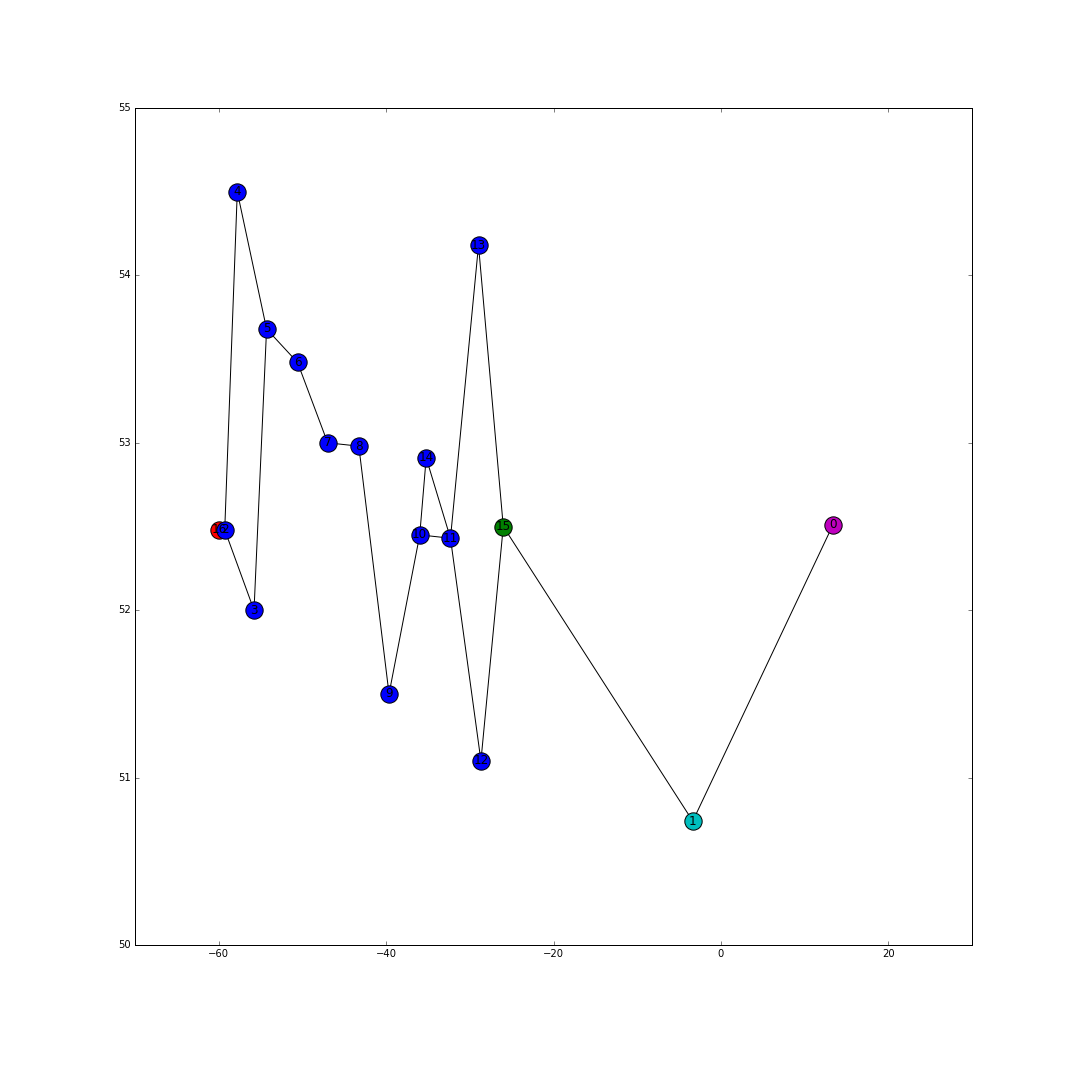
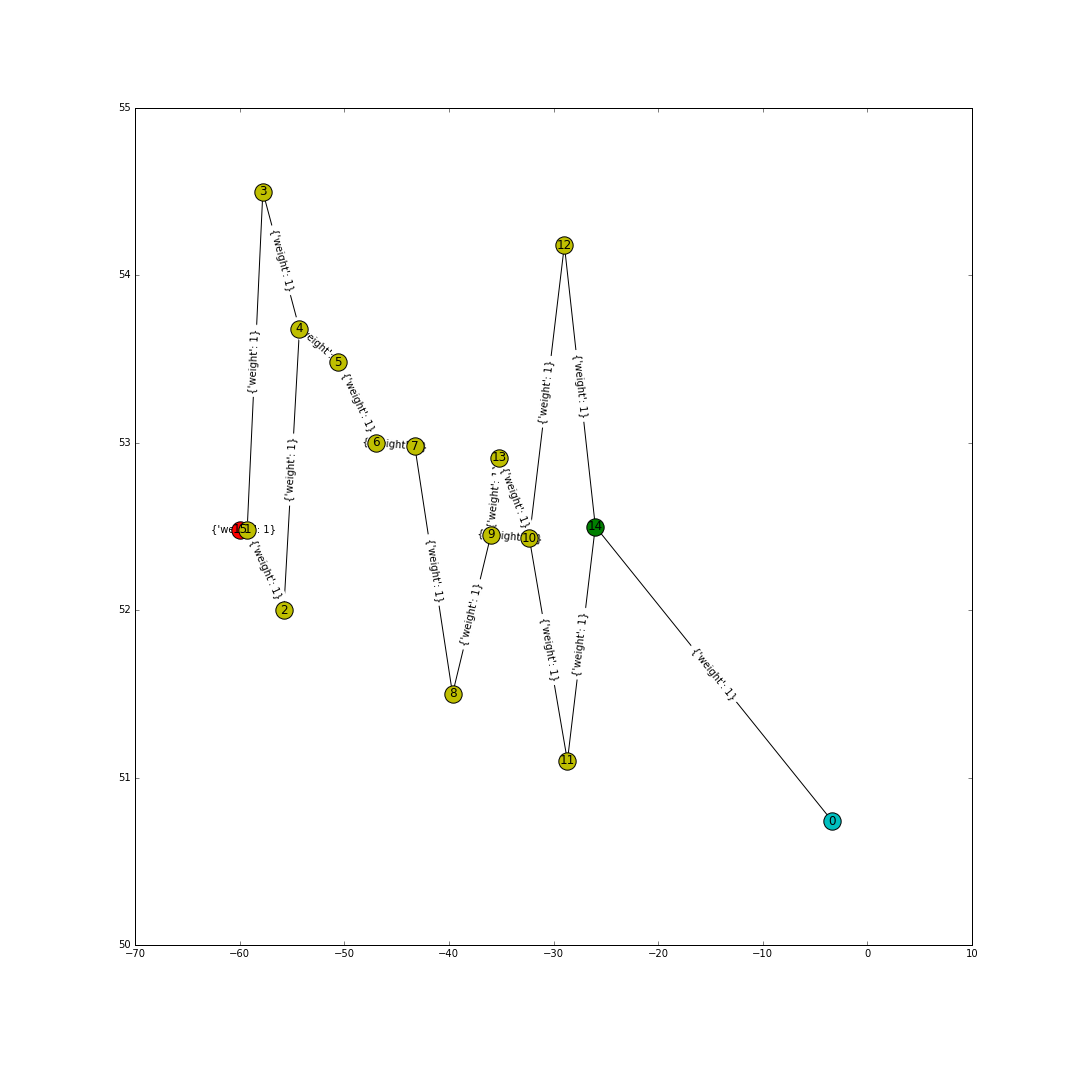
Added Co-ordinates

diff --git a/16201018_16200947_16203106.py b/16201018_16200947_16203106.py
@@ -4,7 +4,7 @@ from geopy.distance import vincenty
 import random
 
 #minimum number of nodes required for communication
-# 1- HQ; 1- CC and 1 - Uboat
+# 1- CC; 1- convoy and 1 - Boat
 minNumNodes = 3
 
 minTransRange = 300
@@ -20,19 +20,12 @@ def set_edges(graph):
             # not same node in two loops and no conncetion
             if (eachNode != nextNode) and \
              not graph.has_edge(eachNode, nextNode):
-                 
-                 # for HQ node
-                 if (graph.node[eachNode]["type"] == "HQ"):
-                    if (graph.node[nextNode]["type"] == "CC"):
-                        graph.add_edge(eachNode,nextNode)
-                        graph.edge[eachNode][nextNode]["weight"] = 1
-                
+                                 
                 # for Command Center node
-                 elif(graph.node[eachNode]["type"] == "CC"):
-                     if (graph.node[nextNode]["type"] == "HQ") or \
-                            (graph.node[nextNode]["type"] == "CC") or \
-                                  ( (graph.node[nextNode]["type"] == "Uboat") \
-                                     and (graph.node[nextNode]["listeningZone"] == 0) ):
+                 if(graph.node[eachNode]["type"] == "CC"):
+                     if (graph.node[nextNode]["type"] == "CC") or \
+                             ( (graph.node[nextNode]["type"] == "Uboat") \
+                                   and (graph.node[nextNode]["listeningZone"] == 0) ):
                         graph.add_edge(eachNode,nextNode)
                         graph.edge[eachNode][nextNode]["weight"] = 1
 
@@ -54,33 +47,23 @@ def set_edges(graph):
     return graph
 
 
-def set_HQ_CC(graph, HQNode, CCNode):
+def set_CC(graph, CCNode):
 
     # Sanity checks for input
     if(graph.number_of_nodes() < minNumNodes):
         raise ValueError("Graph doesnt contain sufficient number of nodes to continue.")
-
-    if not graph.has_node(HQNode):
-        raise ValueError("HQ Node " + str(HQNode) + " not present")
-
+        
     if not graph.has_node(CCNode):
         raise ValueError("CC node " + str(CCNode) + " not present")
 
-    #HQ setup
-    graph.node[HQNode]["lat"] = 52.51
-    graph.node[HQNode]["lon"] = 13.39
-    graph.node[HQNode]["type"] = "HQ"
 
     #CC Setup
     graph.node[CCNode]["lat"]=50.74
     graph.node[CCNode]["lon"]=-3.36
     graph.node[CCNode]["type"] = "CC"
 
-    #add edge between HQ and CC
-    graph.add_edge(HQNode,CCNode)
-    graph[HQNode][CCNode]["weight"] = 1
-    
     return graph
+
 
 def set_convoy(graph, ConvoyNode, location):
 
@@ -134,15 +117,15 @@ def initalize(graph):
 
     return graph
 
-def get_graph(numOfNodes=17):
+def get_graph(numOfNodes=16):
     graph = nx.Graph()
 
     # Generate a graph and intialize node attributes
     graph.add_nodes_from(range(numOfNodes))
     graph = initalize(graph)
 
-    #Set Nodes as HQ, CC locations
-    graph = set_HQ_CC(graph,graph.nodes()[0],graph.nodes()[1])
+    #Set Nodes as CC location
+    graph = set_CC(graph,graph.nodes()[0])
 
     #set Nodes as Uboats
     UboatLocations = ([52.48, -59.28], # Node -2
@@ -174,14 +157,34 @@ def get_graph(numOfNodes=17):
     
 def gen_rand_coord():
     
-    lon=random.uniform(-63.4495, -19.527)
-    lat=random.uniform(25,42)
-    
-    print(lat,lon)
+    lon=random.uniform(-63.44, -5.93)
+    lat=random.uniform(60.52,42.09)
     
     return((lat,lon))
     
-
+def gen_rand_coord_dist(ptlat, ptlon, distrange):
+    
+    flag=0
+    
+    while(flag!=1):
+        
+    
+        lon=random.uniform(-63.44, -5.93)
+        lat=random.uniform(ptlat,42.09)
+        
+        dist=vincenty((lat,lon),(ptlat,ptlon)).kilometers
+        
+        if(distrange==50 and (40<=dist<=50)):
+            print(lat,lon,dist)
+            flag=1
+        elif(distrange==300 and (250<=dist<=300)):
+            print(lat,lon,dist)
+            flag=1
+        else:
+            flag=0
+            
+    return ((lat,lon))
+    
 def draw_graph(graph):
     
     pos = {}
@@ -190,7 +193,6 @@ def draw_graph(graph):
         pos[eachNode]=(graph.node[eachNode]["lon"],graph.node[eachNode]["lat"])
         
     # get three subsets of nodes: susceptible, infected, removed
-    HQ_node = [n for n in graph.nodes() if graph.node[n]["type"] == "HQ"]
     convoy_node = [n for n in graph.nodes() if graph.node[n]["type"] == "convoy"]
     CC_nodes = [n for n in graph.nodes() if graph.node[n]["type"] == "CC"]
     Uboat_lz_nodes = [n for n in graph.nodes() if ( graph.node[n]["type"] == "Uboat" and \
@@ -201,24 +203,22 @@ def draw_graph(graph):
     
 
     # draw edges, then draw each subset in different colour
-    
-    nx.draw_networkx_nodes(graph, pos, nodelist=HQ_node, node_color="m")
     nx.draw_networkx_nodes(graph, pos, nodelist=convoy_node, node_color="r")
     nx.draw_networkx_nodes(graph, pos, nodelist=CC_nodes, node_color="c")
-    nx.draw_networkx_nodes(graph, pos, nodelist=Uboat_lz_nodes, node_color="b")
+    nx.draw_networkx_nodes(graph, pos, nodelist=Uboat_lz_nodes, node_color="y")
     nx.draw_networkx_nodes(graph, pos, nodelist=Uboat_nlz_nodes, node_color="g")
     nx.draw_networkx_nodes(graph, pos, nodelist=empty_nodes, node_color="w")
 
     nx.draw_networkx_labels(graph, pos)
     
     nx.draw_networkx_edges(graph, pos)
-#    nx.draw_networkx_edge_labels(graph, pos)
+    nx.draw_networkx_edge_labels(graph, pos)
 
     plt.savefig("UboatSurvival.png") 
     plt.close()
 
 
-def draw_graphER2(graph):
+def draw_graphER(graph):
     
 #    pos = {}
 #
@@ -229,7 +229,6 @@ def draw_graphER2(graph):
     pos = nx.layout.random_layout(graph)     
     
     # get three subsets of nodes: susceptible, infected, removed
-    HQ_node = [n for n in graph.nodes() if graph.node[n]["type"] == "HQ"]
     convoy_node = [n for n in graph.nodes() if graph.node[n]["type"] == "convoy"]
     CC_nodes = [n for n in graph.nodes() if graph.node[n]["type"] == "CC"]
     Uboat_lz_nodes = [n for n in graph.nodes() if ( graph.node[n]["type"] == "Uboat" and \
@@ -239,122 +238,99 @@ def draw_graphER2(graph):
     empty_nodes = [n for n in graph.nodes() if graph.node[n]["type"] == ""]
     
 
-    # draw edges, then draw each subset in different colour
-    
-    nx.draw_networkx_nodes(graph, pos, nodelist=HQ_node, node_color="m")
+    # draw edges, then draw each subset in different colour    
     nx.draw_networkx_nodes(graph, pos, nodelist=convoy_node, node_color="r")
     nx.draw_networkx_nodes(graph, pos, nodelist=CC_nodes, node_color="c")
-    nx.draw_networkx_nodes(graph, pos, nodelist=Uboat_lz_nodes, node_color="b")
+    nx.draw_networkx_nodes(graph, pos, nodelist=Uboat_lz_nodes, node_color="y")
     nx.draw_networkx_nodes(graph, pos, nodelist=Uboat_nlz_nodes, node_color="g")
     nx.draw_networkx_nodes(graph, pos, nodelist=empty_nodes, node_color="w")
 
     nx.draw_networkx_labels(graph, pos)
-    
     nx.draw_networkx_edges(graph, pos)
 #    nx.draw_networkx_edge_labels(graph, pos)
 
-    plt.savefig("UboatSurvivalER2.png") 
+    plt.savefig("UboatSurvivalER.png") 
     plt.close()
 
-
-    
-def draw_graphER1(graph):
-    
-    pos = nx.layout.random_layout(graph)
-    
-    nx.draw_networkx_nodes(graph, pos)
-    
-    nx.draw_networkx_labels(graph, pos)
-    
-    nx.draw_networkx_edges(graph, pos)
-
-    plt.savefig("UboatSurvivalERG.png") 
-
-    plt.close()
-
-    return
-
-
-def get_erdos_renyi_graph1(numofNodes=17, edgeProb = 0.2):
-    
-    graph = nx.erdos_renyi_graph(numofNodes, edgeProb)
-    
-    return graph
-
-
-def get_erdos_renyi_graph2(numofNodes=17, edgeProb = 0.2):
+def get_erdos_renyi_graph(numofNodes=16, edgeProb = 0.2):
     
     oceanGraph = nx.erdos_renyi_graph(numofNodes - minNumNodes, edgeProb)
-    
     oceanGraph = initalize(oceanGraph)
     
     #Set Land Graph
-    landGraph = nx.Graph()
-    
+    landGraph = nx.Graph()    
     landGraph.add_nodes_from(range(numofNodes-minNumNodes, numofNodes))
-
-    landGraph = set_HQ_CC(landGraph,landGraph.nodes()[0],landGraph.nodes()[1])
+    print(landGraph.nodes())
+    
+    landGraph = initalize(landGraph)
+    landGraph = set_CC(landGraph,landGraph.nodes()[0])
+    
+    #set uboat outside of listening zone
+    landGraph.node[landGraph.nodes()[1]]["type"] = "Uboat"
+    landGraph.node[landGraph.nodes()[1]]["state"] = "receive"
+    landGraph.node[landGraph.nodes()[1]]["listeningZone"] = 0
     
     #set convoy node
     landGraph = set_convoy(landGraph,landGraph.nodes()[-1],gen_rand_coord())
     
-    
     #connecting both graphs
-    graph = nx.compose(oceanGraph, landGraph)
-    
-    graph.add_edge(oceanGraph.nodes()[0],landGraph.nodes()[-1])
-    
-    graph.add_edge(oceanGraph.nodes()[-1],landGraph.nodes()[0])
+    graph = nx.compose(oceanGraph, landGraph)    
+    graph.add_edge(landGraph.nodes()[0],landGraph.nodes()[1])    
+    graph.add_edge(oceanGraph.nodes()[0],landGraph.nodes()[-1])    
+    graph.add_edge(oceanGraph.nodes()[-1],landGraph.nodes()[1])
 
+    #Set Uboats in listening zone
     for eachNode in oceanGraph.nodes() :
+        newPoint = ()
+        if(eachNode==0):
+            newPoint = gen_rand_coord_dist(graph.node[landGraph.nodes()[-1]]["lat"],graph.node[landGraph.nodes()[-1]]["lon"],minViewRange)
+        else:
+            newPoint = gen_rand_coord_dist(graph.node[landGraph.nodes()[eachNode-1]]["lat"],graph.node[landGraph.nodes()[eachNode-1]]["lon"],minTransRange)
+        
+        graph.node[eachNode]["lat"] = newPoint[0]
+        graph.node[eachNode]["lon"] = newPoint[1]
         graph.node[eachNode]["type"] = "Uboat"
         graph.node[eachNode]["state"] = "standBy"
         graph.node[eachNode]["listeningZone"] = 1
 
-    graph.node[oceanGraph.nodes()[-1]]["listeningZone"] = 0
-
-#
-#    graph = set_Uboats(graph, numOfUboats, UboatLocations)
-#
-#    #set convoy node
-#    graph = set_convoy(graph,graph.nodes()[-1])
-#    
-#    #set edges
-#    graph = set_edges(graph)
-    
     return graph
+
+def realWorldScenario():
+    plt.figure(figsize=(15,15))
+    
+    graph  = get_graph(16)
+    draw_graph(graph)
+    
+    print("Real world Scenario Shortest Path - " ,nx.dijkstra_path(graph,graph.nodes()[-2],graph.nodes()[0]))
+    print("Shortest path Length - ",nx.dijkstra_path_length(graph,graph.nodes()[-2],graph.nodes()[0]))
+    
+    print(graph.nodes(data=True))
+    print(graph.edges(data=True))      
+    
+    
+def researchQScenario(numOfNodes=17, probability=0.2):
+    
+    graph = get_erdos_renyi_graph(numOfNodes,probability)
+    
+    draw_graphER(graph)
+    
+    #Convoy ship
+    
+    print("Shortest Path - " ,nx.dijkstra_path(graph,14,15))
+    print("Shortest path Length - ",nx.dijkstra_path_length(graph,14,15))
+
+    print(graph.nodes(data=True))
+    print(graph.edges(data=True))      
+    
     
     
 if __name__ == "__main__":
 
-#   Version -0 Real time scenario    
-#    plt.figure(figsize=(15,15))
-#    
-#    graph  = get_graph(17)
-#    draw_graph(graph)
-#    
-#    print("Shortest Path - " ,nx.dijkstra_path(graph,16,0))
-#    
-#    print("Shortest path Length - ",nx.dijkstra_path_length(graph,16,0))
-
-#    
-#   version - 1 just random graph
-#   graph = get_erdos_renyi_graph(17,0.1)
-#    
-#    draw_graphER(graph)
-#    
-
-#   Version 2 - ocean graph and land graph
-
-    graph = get_erdos_renyi_graph2(17,0.5)
     
-    draw_graphER2(graph)
- 
-    print("Shortest Path - " ,nx.dijkstra_path(graph,15,16))
-   
-    print("Shortest path Length - ",nx.dijkstra_path_length(graph,15,16))
+    # Real time scenario    
+#    realWorldScenario()
 
-    print(graph.nodes(data=True))
 
-    print(graph.edges(data=True))      
+#   Probability Version 
+    researchQScenario(17, 0.2)
     
